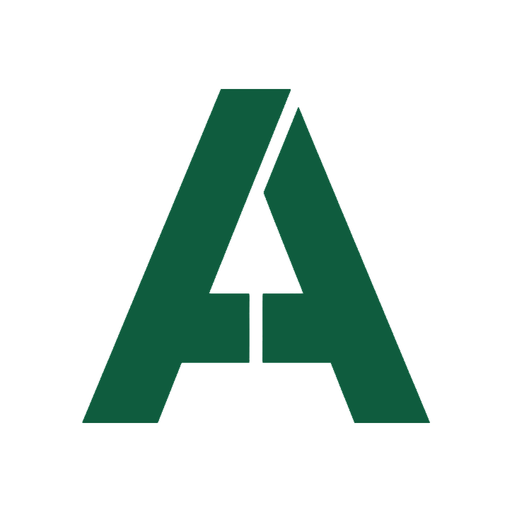
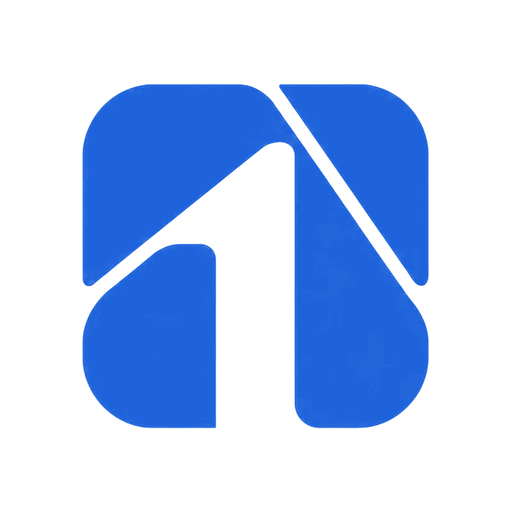
Put the new mark on the Play listing, and bump the build
The Play Console still showed the retired green: the feature graphic was 73%
green pixels and the listing icon 20%. Rebuilt all three in the brand blue,
same composition, set in the Inter the app already bundles. Verified at zero
green pixels.

Build bumped to +6 for the release. The Windows and APK downloads needed no
work — CI rebuilt both from a commit that already contains the icon change.

diff --git a/PROJECT_SPEC.md b/PROJECT_SPEC.md
@@ -322,6 +322,7 @@ something a synthetic `flutter test` harness reproduces deterministically —
 verified instead via the same manual-emulator method that found it, per this
 project's existing convention for UI-only changes.
 
+| 2026-10-13 | Play listing graphics rebranded, and the download links checked rather than assumed | Owner asked whether the Windows and APK downloads are sound, and for a new Play release. **The downloads are fine, and worth stating why:** both resolve, and the assets were rebuilt by CI at 13:38 UTC the previous day from `0f9d417` — which `git merge-base --is-ancestor` confirms contains the icon commit, so the published APK (104 MB) and Windows zip (21 MB) already carry the new mark. The later two commits touched only `marketing-site/` and `supabase/functions/`, so the path filters correctly did not rebuild them. **The Play Console assets were another matter.** All three were still the retired green: `play_icon_512.png` at 20% green pixels and the feature graphic at **73%** — that green "A" is what the Play listing shows today. The feature graphic was rebuilt to the same composition as the one it replaces — diagonal gradient, white rounded tile, short rule above the title — in the brand blue, set in **Inter**, which the app already bundles, rather than a lookalike. Listing icon regenerated at the launcher icon's framing. All three verified at **zero green pixels**. Build bumped `1.0.0+5 → +6` per `VERSIONING.md`, analyze clean, 1,076 tests pass. **The AAB build cost a detour:** it filled the disk completely — no command could run at all, since even the harness could not write its output file — and then failed again on a Gradle daemon still holding paths inside the cache directory that clearing it had removed. Daemons stopped, caches re-fetched, rebuilt. These are Play **listing** assets, uploaded in the Console rather than carried in the bundle, so replacing them is the owner's step. |
 | 2026-10-13 | The full lockup on the marketing site, and a mail run the public key can no longer start | **Lockup:** the site showed the mark beside a hand-set "All In One POS"; it now uses the supplied artwork itself, across **40 brand blocks in 20 pages**. The footer could not take the same file — its background is `--brand-dark`, where the lockup's charcoal wordmark measures **2.4:1**, so a **white version** was generated from the artwork's own alpha and reads at **7.6:1** there. The header keeps the colour one. Sized by height with width auto, because the artwork is 1419×419 and a fixed box would squeeze it; the flex `gap` collapses now that no text sits beside it. Checked on a local server rather than a file:// snapshot, which loads neither CSS nor images: header, dark footer, a feature page's `../assets/` path, and 375px wide. **Cron hardening, found while writing the setup steps:** `verify_jwt` accepts *any* valid JWT, including the **anon key that ships inside the app** — so anyone holding it could start a mail run. The function now reads the verified token's `role` claim and refuses anything but `service_role`. Confirmed against production: anon key **403 `forbidden`**, no auth **401**. That also makes the documented setup the only one that works, instead of merely the recommended one. **And a second thing the dialog revealed:** Supabase's scheduler caps its HTTP timeout at **5000 ms**, which a batch of mails will outgrow. The request would still be delivered and the mail still sent — pg_net only stops *waiting* — but every run would be filed as a timeout, and a job history that always reads "failed" hides the day something really does. The function now hands the batch to `EdgeRuntime.waitUntil` and answers the schedule **202** at once, logging the counts; `?wait=1` keeps the blocking behaviour for a human checking by hand, which is the only time the counts are worth waiting for. |
 | 2026-10-12 | The licence-key strings deleted — and the one still telling owners to ask for a key | The 2026-10-08 audit had listed seventeen dead key-era strings and deliberately left them, since removing them is its own sweep. Done now, re-verified rather than taken on trust: the candidates were re-derived from the ARB text and each checked against **`lib/` and `test/`**, by `.key` reference and again by bare name. **20 are dead** — the seventeen plus `deviceAddOnlineHint`, `invWebKeySection` and `licenseGetKey`. **One candidate was still live, and reading it was the point of checking:** `helpGuideSettingsBody` — the in-app help guide — still told owners to *"contact Support with your App Reference ID for a license key"*. There are no keys any more; Premium lands on the shop account by itself. Its no-commerce twin was stale in a quieter way, promising Premium "once a Premium license is active **on this device** or on your shop account", device-bound licensing having been retired as well. Both rewritten in both languages to describe what actually happens. Deleting was done by parsing the ARBs as JSON and re-serialising, after a first attempt at regex surgery left a dangling comma and broke the file — caught immediately because the script re-parses what it writes. Each key's `@`-metadata went with it. **1,524 → 1,503** entries in English, the same 21 out of Myanmar, parity intact at **1,401** translatable keys with neither side holding a key the other lacks, and no live string anywhere still saying "license key". `flutter analyze` clean, **1,076 tests pass** — `i18n_parity_test.dart` being the guard that would have caught a one-sided delete. |
 | 2026-10-12 | Email reminders before Premium lapses — written and tested, **not yet deployed** | The in-app watcher already warns at 7/3/1/0 days, and its own comment names the assumption it rests on: "a POS is opened every trading day". The gap is exactly where that assumption fails — an owner travelling, on a new phone, or one who has stopped opening an app whose Premium already lapsed, which is the moment they most need telling. **0101** adds `shop_expiry_notices` and `claim_expiry_notices()`. Claiming is deliberately separated from sending: the notice row is inserted first and the mail goes second, so two overlapping cron runs cannot both send — the primary key refuses the second claim — and a failed send calls `release_expiry_notice` to hand the claim back for tomorrow. The failure this orders for is a **duplicate**, because a second identical email is worse than one arriving a day late. The stamp is `<expires_at>|<threshold>`, the same convention the in-app watcher uses, so **renewing invalidates every outstanding claim on its own** with no reset to remember. Days are counted in `Asia/Yangon`, not UTC: "7 days left" has to mean what an owner in Yangon would say. Thresholds are 7/3/1 to match the in-app ones, plus **one the day after expiry** — the case the in-app watcher deliberately stays silent on. Free and archived shops are never mailed, and the mail says plainly what keeps working on Free so it cannot read as "your till stops on Friday". New `expiry-reminders` function, bilingual mail through Resend's HTTP API, JWT verification left **on** so the schedule's own key is the only way in. **9 SQL tests**, verified to fail without 0101; the rollback script learned to drop the new table and three functions, which the 0093-schema comparison caught immediately. 202 SQL tests, `flutter analyze` clean, `deno check` clean. **Deployment was briefly blocked** — `db push` and `functions deploy` both started returning 403 "account does not have the necessary privileges" and `projects list` came back empty, the CLI's token having lost access partway through the day. `supabase login` restored it, and 0101 turned out to have landed before the 403 began. `expiry-reminders` deployed (v2) and smoke-tested against production: **401 with no auth** (JWT verification is on, so only the schedule's key gets in) and **503 `mail_not_configured`** with a key but no Resend secret — refusing *before* claiming anything, which is the behaviour that stops a reminder being recorded as sent and never going out. **Proved end to end against production, and the proof earned its keep.** With the Resend key in place the first real run returned `claimed:1, sent:0, **failed:1**` — the function defaulted its sender to `noreply@allinonepos.app`, which is the apex domain and is not set up to send; the address that passes is `account@auth.allinonepos.app`, the subdomain carrying SPF/DKIM/DMARC, with the local part already moved off "no-reply" during the deliverability work. A `claimed:0` run would have hidden this until the first real shop hit seven days out. Two weaknesses fixed together: the sender default, and a `catch` that swallowed the processor's own words — a rejected sender was indistinguishable from a timeout, which is exactly the diagnosis that run cost. It now carries Resend's response into the log. Re-run: **`claimed:1, sent:1`** — and because the failed attempt had released its claim, the retry path was proven live too, not just in tests. A third run returned `claimed:0`, so the no-duplicate guarantee holds in production. **Owner confirmed the mail reached the inbox** — bilingual, from `account@auth.allinonepos.app`, not junked — so the whole path is proven: claim, send, deliver, and refuse to repeat. **Left to the owner:** the daily schedule POSTing the function with the service-role key. |
